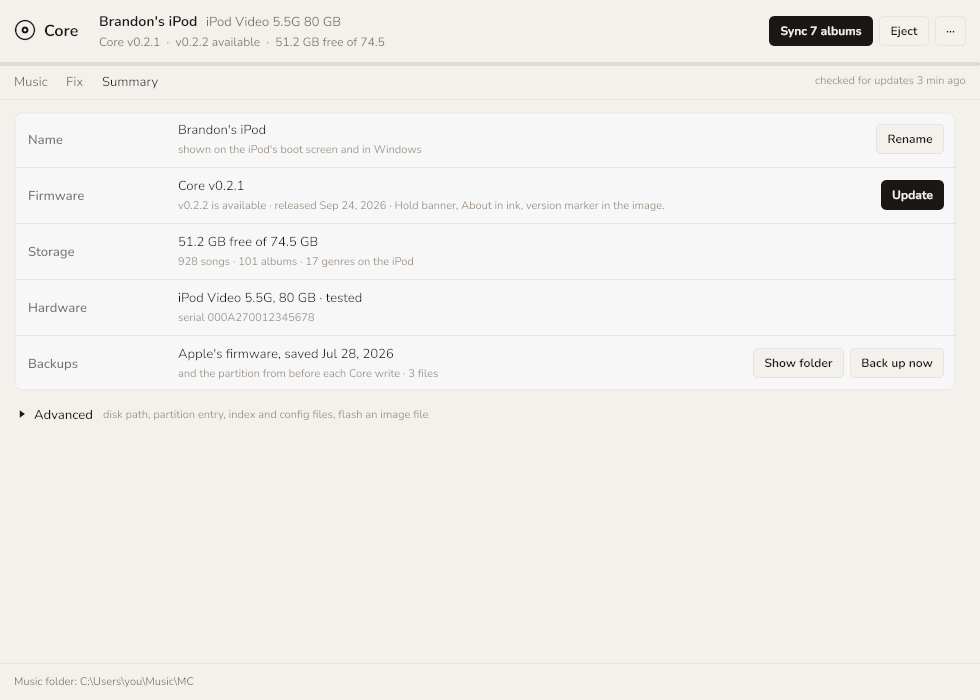
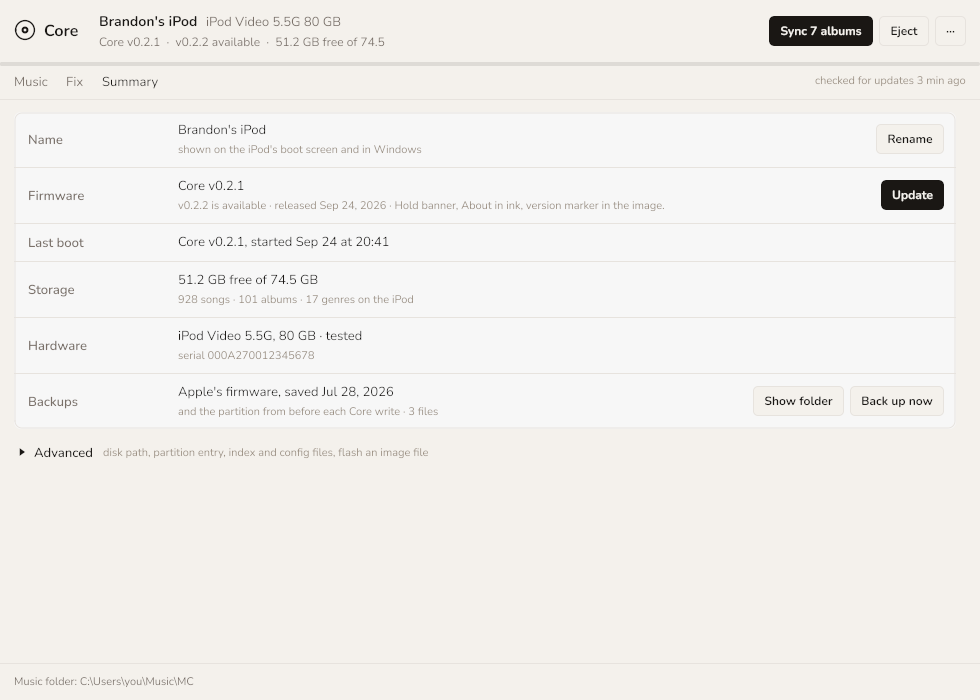
app: the Summary tab says whether the iPod started its firmware
A Last boot row under Firmware, from the same doctor.CheckBoot the CLI
prints: "Core v0.2.2, started Nov 1 at 14:03", or "Has not started the
new firmware yet" with how to fix that. Refresh computes it, so the
readBack after Flash, Update and Install shows it straight away. The time
is the boot's own clock reading, not "2 hours ago", so the line cannot
go stale while the window is open and the screenshot stays deterministic.

docs: "Did it boot?" in the guide's firmware section, --boot in the
command list and the README's doctor row; core_app_ipod.png re-shot (the
--source library does not reach the Summary tab: a shot without it was
pixel-identical to the committed one before this change).

diff --git a/internal/app/boot_test.go b/internal/app/boot_test.go
@@ -1,0 +1,58 @@
+package app
+
+import (
+	"testing"
+	"time"
+
+	"github.com/BrandonDedolph/core-desktop-app/internal/doctor"
+)
+
+func TestBootWords(t *testing.T) {
+	at := time.Date(2026, 11, 1, 14, 3, 0, 0, time.UTC)
+	cases := []struct {
+		rep   doctor.BootReport
+		line  string
+		stale bool
+	}{
+		{doctor.BootReport{State: doctor.BootCurrent, Version: "v0.2.2", Boot: doctor.BootFacts{At: at}},
+			"Core v0.2.2, started Nov 1 at 14:03", false},
+		{doctor.BootReport{State: doctor.BootCurrent, Version: "v0.2.2"}, "Core v0.2.2", false},
+		{doctor.BootReport{State: doctor.BootNotYet, Version: "v0.2.1", Boot: doctor.BootFacts{At: at}},
+			"Has not started the new firmware yet", true},
+		{doctor.BootReport{State: doctor.BootUnknownBuild, Boot: doctor.BootFacts{At: at}},
+			"Started Nov 1 at 14:03 — which build is not recorded", false},
+		{doctor.BootReport{State: doctor.BootUnknownBuild}, "Started, but which build is not recorded", false},
+		{doctor.BootReport{State: doctor.BootNone}, "No start recorded in the iPod's log yet", false},
+		{doctor.BootReport{State: doctor.BootNoLog}, "", false},
+	}
+	for _, tc := range cases {
+		line, stale := bootWords(tc.rep, time.UTC)
+		if line != tc.line || stale != tc.stale {
+			t.Errorf("state %d: got %q %v, want %q %v", tc.rep.State, line, stale, tc.line, tc.stale)
+		}
+	}
+}
+
+func TestLastBootRow(t *testing.T) {
+	u := NewUI(Options{})
+	st := DemoState()
+	u.SetState(st)
+	if r := rowByLabel(t, u, "Last boot"); r.value != "Core v0.2.1, started Sep 24 at 20:41" ||
+		r.sub != "" || len(r.actions) != 0 {
+		t.Errorf("demo Last boot row = %+v", r)
+	}
+
+	st.Device.Boot, st.Device.BootStale = "Has not started the new firmware yet", true
+	u.SetState(st)
+	if r := rowByLabel(t, u, "Last boot"); r.sub == "" || len(r.actions) != 0 {
+		t.Errorf("stale Last boot row = %+v", r)
+	}
+
+	st.Device.Boot = ""
+	u.SetState(st)
+	for _, r := range u.ipodRows() {
+		if r.label == "Last boot" {
+			t.Errorf("a Last boot row with nothing to say: %+v", r)
+		}
+	}
+}

diff --git a/internal/app/boot.go b/internal/app/boot.go
@@ -1,0 +1,44 @@
+package app
+
+import (
+	"time"
+
+	"github.com/BrandonDedolph/core-desktop-app/internal/doctor"
+)
+
+// bootWords is the boot evidence as the Summary tab's "Last boot" line says
+// it: a sentence, the build and when, or what has not happened yet. stale is
+// true when the iPod holds an image it has not started. The time is the
+// boot's own clock reading, shown in loc; nothing here is relative to now,
+// so the line does not go stale while the window stays open.
+func bootWords(rep doctor.BootReport, loc *time.Location) (line string, stale bool) {
+	when := ""
+	if at := rep.Boot.At; !at.IsZero() {
+		when = "started " + at.In(loc).Format("Jan 2 at 15:04")
+	}
+	switch rep.State {
+	case doctor.BootCurrent:
+		line = "Core " + rep.Version
+		if when != "" {
+			line += ", " + when
+		}
+		return line, false
+	case doctor.BootNotYet:
+		return "Has not started the new firmware yet", true
+	case doctor.BootUnknownBuild:
+		if when == "" {
+			return "Started, but which build is not recorded", false
+		}
+		return capitalize(when) + " — which build is not recorded", false
+	case doctor.BootNone:
+		return "No start recorded in the iPod's log yet", false
+	}
+	return "", false
+}
+
+func capitalize(s string) string {
+	if s == "" || s[0] < 'a' || s[0] > 'z' {
+		return s
+	}
+	return string(s[0]-'a'+'A') + s[1:]
+}

diff --git a/internal/app/ipod_tab.go b/internal/app/ipod_tab.go
@@ -18,9 +18,10 @@ import (
 	"gioui.org/widget/material"
 )
 
-// The iPod tab: this iPod, in five rows a person can read — its name, its
-// firmware, how full it is, what it is, and where its backups are — each
-// with the one or two things that can be done about it. Everything that is a
+// The iPod tab: this iPod, in rows a person can read — its name, its
+// firmware and whether it has started it, how full it is, what it is, and
+// where its backups are — each with the one or two things that can be done
+// about it. Everything that is a
 // register-level fact (the disk path, the OSOS entry, the device files, the
 // image flash) is under Advanced, closed by default. The log is the drawer's,
 // as on every screen.
@@ -111,6 +112,14 @@ func (u *UI) ipodRows() []ipodRow {
 		fw.actions = []btn{{&u.checkBtn, "Check", false, !busy}}
 	}
 	rows = append(rows, fw)
+
+	if d.Boot != "" {
+		boot := ipodRow{label: "Last boot", value: d.Boot}
+		if d.BootStale {
+			boot.sub = "unplug the iPod and let it start, then plug it back in to check again"
+		}
+		rows = append(rows, boot)
+	}
 
 	st := ipodRow{label: "Storage", value: "not read yet"}
 	if d.Capacity > 0 {

diff --git a/internal/app/state.go b/internal/app/state.go
@@ -184,8 +184,14 @@ type Device struct {
 	// volume, not derived from the disk's size, which also counts the
 	// firmware partition and the FAT. Both zero when nothing has read
 	// them.
-	Free, Capacity        int64
-	Firmware              string
+	Free, Capacity int64
+	Firmware       string
+	// Boot is the Summary tab's "Last boot" line — the boot evidence
+	// doctor.CheckBoot found in the iPod's log, in words (bootWords);
+	// empty when there is no log to read. BootStale says the iPod has an
+	// image it has not started yet.
+	Boot                  string
+	BootStale             bool
 	OSOSOK                bool
 	OSOSNote              string
 	Err                   string

diff --git a/internal/app/backend.go b/internal/app/backend.go
@@ -256,6 +256,9 @@ func (b *RealBackend) Refresh(ctx context.Context) (Device, Library, error) {
 	d.ElevationAdviceNeeded = !d.Elevated && strings.Contains(strings.ToLower(d.Err), "denied")
 
 	vol := doctor.CheckVolume(d.Volume)
+	if d.Volume != "" {
+		d.Boot, d.BootStale = bootWords(doctor.CheckBoot(d.Volume, dev, vol, time.Now()), time.Local)
+	}
 	lib := Library{
 		Present:     vol.Present,
 		Songs:       vol.Songs,

diff --git a/internal/app/demo.go b/internal/app/demo.go
@@ -45,6 +45,7 @@ func DemoState() State {
 			Free:     54_975_581_388,
 			Capacity: 79_993_765_888,
 			Firmware: "v0.2.1 (build 2026-09-14T22:41:07Z g928727d)",
+			Boot:     "Core v0.2.1, started Sep 24 at 20:41",
 			Installed: fwpart.Installed{
 				Kind: fwpart.Core, Version: "v0.2.1", BuildID: "2026-09-14T22:41:07Z g928727d",
 				Description: "Core v0.2.1 (build 2026-09-14T22:41:07Z g928727d)",

diff --git a/README.md b/README.md
@@ -316,7 +316,7 @@ internal/
 | `flash` | **works** (S7) — replaces `ipodpatcher -wf`. Writes the OSOS body (zero-padded to 0x800) and the one directory sector holding its row, in that order; everything else on the partition is untouched. The row's entry point is set to 0 (this image starts at its first byte; Apple's starts 7.5 MB in, and a row left saying so is a device that boots to nothing) and `addr`/`vers`/`loadAddr2` are kept exactly as the device had them. Backs the WHOLE partition up first (temp + fsync + rename, then re-parsed off disk), locks the device, flushes, and re-opens it read-only to compare the read-back. `--dry-run` prints the plan and opens nothing for writing; without `--yes` you type the device path to confirm. `--from-backup <fwpart.bin>` is the recovery path: whole-partition restore, refused unless the file's preamble, directory and OSOS checksum all validate and its size matches the device. |
 | `install` | **works** (L1) — one command for an iPod that is still running Apple's firmware: classifies the OSOS row and body (`fwpart.Classify`: a `CORE-FW-VERSION` marker means Core, no marker with entry point 0 and a body under a megabyte means a Core from before v0.1.3, anything else — Apple's `entry 0x736000` / 7.6 MB — means Core is not installed), refuses a device that is already ours with `core update` as the thing to run instead (`--force` overrides), downloads the latest release when no file is given, then runs the `flash` sequence unchanged. The whole-partition backup is named `apple-<serial>-<date>.bin` when what it holds is not Core, because that file is the only copy of that device's Apple firmware in existence — it is never pruned, and the install's last lines name it and the `core flash --from-backup` that puts it back. Afterwards it creates on the music volume what the firmware can overwrite but never create: `CORECFG.DAT`, `CORELOG.BIN`, `COREOTG.DAT`, an empty `Music\` and the five On-The-Go slot playlists inside it, and stamps the clock into the config it has just guaranteed exists, so the first boot after an install is not the one that reads "Not set". On Windows the elevated child is another `install` of the already-downloaded file, never a release tag. The sequence itself is `internal/installer` (L6), so the app's Install button runs the same one; what is left in the command is the flags, the download and the exit code. |
 | `update` | **works** (S8) — compares the version marker in the installed image with the latest GitHub release, prints the release notes, downloads `core-<tag>.ipod` (or `core.ipod`) into `<user cache dir>/core/<tag>/`, verifies its `.ipod` transport checksum, and then runs the `flash` sequence unchanged. `--check` stops after the comparison and downloads nothing; `--tag vX.Y.Z` pins a release and is also how the installed version gets written again. On Windows the elevated child is re-invoked as `flash <cached file> --yes --no-relaunch`, never as `update`, so the process with Administrator rights does no network I/O. There is no signature checking: the checksum is an integrity check. |
-| `doctor` | **works** (S8) — read-only walk printing one OK/WARN/FAIL line per check: device, tested hardware, the image directory, the OSOS checksum, the installed version, then the FAT volume — `Music/`, `CORELIB.IDX` (header, CRC, record count and the song/album/genre caps past which the device silently drops), `CORECFG.DAT`, `CORELOG.BIN` (header AND the block count against the file length, which is `evlog_mount()`'s own test), `COREOTG.DAT` (the On-The-Go live list: the two-slot region, the newest slot's sequence and how many tracks it holds), the **clock** (never stamped / a stamp the device has not booted to take, both WARN / applied, OK) and the playlist folder — including one line per On-The-Go slot, because every way those can be wrong is invisible on the device: missing (Save has one fewer slot), empty, N tracks, a **torn save** the device opens to "Playlist damaged", or a playlist of your own sitting at a slot name — and for the last two it prints the way out, because it is the only thing that ever will: the device never writes to a slot with no header, an interrupted save can leave one looking exactly like a file of yours, and only a person looking at the file can tell them apart, so the line says to delete it and re-sync. Exits 1 if any check FAILs. `--volume PATH` checks a volume with no iPod attached; the device lines become SKIPs. |
+| `doctor` | **works** (S8) — read-only walk printing one OK/WARN/FAIL line per check: device, tested hardware, the image directory, the OSOS checksum, the installed version, then the FAT volume — `Music/`, `CORELIB.IDX` (header, CRC, record count and the song/album/genre caps past which the device silently drops), `CORECFG.DAT`, `CORELOG.BIN` (header AND the block count against the file length, which is `evlog_mount()`'s own test), `COREOTG.DAT` (the On-The-Go live list: the two-slot region, the newest slot's sequence and how many tracks it holds), the **clock** (never stamped / a stamp the device has not booted to take, both WARN / applied, OK) and the playlist folder — including one line per On-The-Go slot, because every way those can be wrong is invisible on the device: missing (Save has one fewer slot), empty, N tracks, a **torn save** the device opens to "Playlist damaged", or a playlist of your own sitting at a slot name — and for the last two it prints the way out, because it is the only thing that ever will: the device never writes to a slot with no header, an interrupted save can leave one looking exactly like a file of yours, and only a person looking at the file can tell them apart, so the line says to delete it and re-sync. Then the **boot** section: the newest boot in `CORELOG.BIN` (its clock, the index refusal line if any, whether the session ended with a final flush), held against `COREFLSH.TXT`, the note every verified flash leaves on the volume (the written row and the log's newest boot id at that moment) — a newer boot id is a boot of the flashed image. Exits 1 if any check FAILs. `--volume PATH` checks a volume with no iPod attached; the device lines become SKIPs. `--boot` prints only the boot section and exits 1 while the iPod has an image it has not started — the bench check after a flash is: unplug, let it start, plug back in, `core doctor --boot`. |
 | `core-app` (separate executable, `cmd/core-app`) | **works** (S10, L5b, L6, L7, app pass A1–A7) — native desktop window, Gio v0.8.0, minimum 720×520, in the device's Linen or Onyx (System follows Windows' AppsUseLightTheme; the choice is `theme` in config.json), Nunito embedded. Three launch phases and no Refresh button: **Looking** (no iPod — the ring-and-dot mark, the disk-mode steps, and a poll of `disk.FindIPods` every 2 seconds, paused while a job runs, which also catches the unplug), **Core is not installed** (a stock iPod: three sentences and **Install Core** / **Install from a file…** — picking a file fills it in, the second click installs), and **Ready**. The header is the mark, the iPod's name (the friendly name remembered under the disk serial, else the volume label, else the detected model) with its model, one status line (firmware · update state · free space read off the volume), and ONE verb-first primary — *Sync 7 albums*, *Update to v0.2.2*, *Install Core*, *Eject* — with Eject and "···" beside it and a Cancel in its place while a job that can stop runs. The release check runs once per launch after the first Refresh that finds an iPod; Flash, Update and Install all end by reading the device back, so the header shows the new version without a replug. **Music** (the tab once called Albums) is the grid (each album's own embedded cover, else its cover.jpg, decoded at the tile's device-pixel size — never the iPod's 120 px `folder.art` — else a palette-derived plate with the initial; NEW/CHANGED chips from the last preview; the iPod's bouncing bars on the playing album). **Fix** (once Library) is the music folder (the one place it is set) and the fix screen: problem rows, the before → after preview, cover candidates with *Use this cover* / *Skip*, **Fix all**, **Undo**, **Rescan**. **Summary** (once iPod) is five rows — Name, Firmware, Storage, Hardware, Backups — and an **Advanced** disclosure with the disk path, OSOS entry, device files, CLI path, *Preview sync* / *Sync and remove…* and the image flash. The log is a drawer on every screen, opened from the "···" menu (Show the log), Ctrl+L, or a failed job's status line in the header; the footer is the music folder and, while a track is loaded, the player — cover, bars, track and time over the seek line, play/pause, next, the volume (a speaker that mutes, a 72 dp slider, the wheel over the player and ctrl+↑/↓; the app's own level, saved as `volume` 0–100 in config.json, through a p² loudness curve) and ✕. Each FLAC plays at its ReplayGain as the firmware applies it (`internal/player/rg.go`, the firmware's parser, Q12 gain and peak cap ported line for line; MP3 at unity, as on the iPod), switchable in the ··· menu and saved as `replaygain`. The "···" menu holds backup, flash an image file, read again, check for updates, show and copy the log, open the music folder, the theme and About. **Gates:** a firmware write shows an identity card (name, model, serial, "Disk 2 (as Disk Management numbers it)", bytes written) and is confirmed by a two-second press-and-hold, which answers the flasher's prompt with the path the window identified — and only after checking the prompt names that path. Hardware Core has not been tested on is refused by the app (`app.ErrUntested`); `core flash`/`core install --untested-hardware` is the one way to write it. *Sync and remove* lists what it would delete, labelled by kind, and counts it on its button. The dialog's Cancel always means no (`UI.cancel`, the `CancelAnswer` sentinel) — it once shared a function with OK that turned an empty answer into "yes". On Windows the manifest (`cmd/core-app/winres/winres.json`, compiled into `rsrc_windows_*.syso` with the window icon as RT_GROUP_ICON #1) requests Administrator at launch, so the window reads the raw disk and writes itself; an unelevated window falls back to running `core.exe` elevated through `disk.RelaunchElevatedExe`. `--screenshot`/`--state`/`--size`/`--tab`/`--theme`/`--drawer`/`--dialog` render one frame headless; `--no-detect` turns the poll off; `--log FILE` is how a window that never opened explains itself. **The L7 panes scroll vertically, and that is asserted.** `widget.List`'s zero value is a HORIZONTAL list, and the three lists L7 added (`grid`, `libList`, `prevList`) were built without setting `Axis`, so they handed their children `layout.Inf` — 1e6 px — on the X axis. The layout still reported the right window size, so every dimension test passed; a `widget.Border` a million pixels wide only exploded one layer down, in Gio's stroke flattener, where it became tens of millions of segments and gigabytes of allocation. `core-app.exe --screenshot --state library` reached 30 GB and the test binary was OOM-killed at 40 GB. The fix is three lines in `NewUI`; the guards are `TestEveryListScrollsVertically` (reflection over every `widget.List` on the UI struct — a new pane cannot forget it) and `TestFrameAllocationIsBounded` (256 MiB per rendered frame; the Fix tab now costs 21 MiB). |
 
 Commands are registered only once they have code behind them, so

diff --git a/docs/GUIDE.md b/docs/GUIDE.md
@@ -154,6 +154,7 @@ core update                      # the newest release: download, verify, flash
 core flash core.ipod             # a particular image, e.g. one downloaded from a release
 core backup                      # the whole firmware partition to a file
 core doctor                      # read-only check of the device and its library
+core doctor --boot               # did the iPod start the image the last flash wrote?
 ```
 
 `update` reads the latest GitHub release, downloads the image, checks it against its own checksum,
@@ -168,6 +169,17 @@ Every flash backs the whole firmware partition up first, writes only this firmwa
 one directory row describing it — the Apple preamble, the partition table and Apple's other images
 are never touched — and re-reads what it wrote to compare. `--dry-run` prints the plan and opens
 nothing for writing.
+
+**Did it boot?** The read-back proves the bytes, not the boot. To prove the boot: unplug the iPod
+and let it start, plug it back in, and run `core doctor --boot` (or look at **Last boot** on the
+app's Summary tab). Every flash leaves a small note, `COREFLSH.TXT`, on the music volume: which
+image it wrote and where the iPod's own log (`CORELOG.BIN`) stood at that moment. The firmware adds
+to that log every time it starts, so a start newer than the note is a start of the new image.
+`--boot` prints the last start and its time, the build it ran, whether the library index loaded,
+and whether that session ended cleanly (sleep, standby, disk mode) or just stopped (a reset, a
+crash, a flat battery). It exits 1 while the iPod has an image it has not started yet — "flashed
+v0.2.2, last boot ran v0.2.1 — the iPod has not restarted since". An image written by an older
+`core` or another tool has no note, so the build is reported as unknown (a WARN, not a FAIL).
 
 **What is verified.** The iPod Video 5.5G 80 GB is the only model this firmware has ever booted,
 and the only one the app knows. Its flash path has been run on that device: the whole-partition
